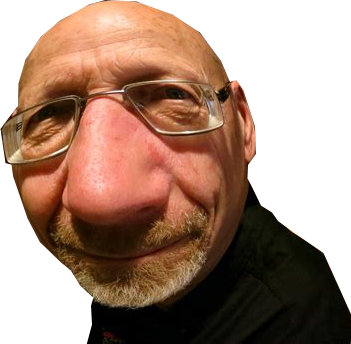
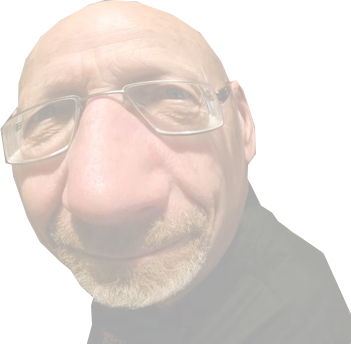
Ajustes no tema

diff --git a/config.css b/config.css
@@ -67,7 +67,7 @@ input[type=number].w-100 {
         rgb(25, 36, 53)
     );
 
-    box-shadow: 0.3rem 0.3rem 0.2rem rgb(110, 110, 110);
+    box-shadow: 0.3rem 0.3rem 0.1rem rgb(180, 180, 180);
 
     color: white;
 }
@@ -153,6 +153,8 @@ input[type=number].w-100 {
 }
 
 .icon {
+    margin-bottom: -2px;
+
     width: 16px;
     height: auto;
 }
@@ -161,7 +163,7 @@ input[type=number].w-100 {
     position: absolute;
     right: 0;
     bottom: 0;
-    opacity: 15%;
 
+    opacity: 50%;
     z-index: -1000;
 }

diff --git a/README.md b/README.md
@@ -36,7 +36,33 @@ A extensão não faz absolutamente nada até que o usuário solicite uma de suas
 - [ ] Remover código antigo não utilizado.
 - [ ] Comentar todas as funções, variáveis e constantes.
 - [ ] Assinar extensão digitalmente.
+- [ ] Atalho(s) de teclado.
 
-<br><br><br><br><br><br>
 
-"Fecha as aba, fio." – Dr. Ricardo Porreta
+
+
+
+
+
+
+
+
+
+
+
+
+
+
+
+
+
+
+<br><br><br><br><br><br><br><br><br><br>
+<br><br><br><br><br><br><br><br><br><br>
+<br><br><br><br><br><br><br><br><br><br>
+<br><br><br><br><br><br><br><br><br><br>
+
+![Porreta](assets/watermark.png)
+
+> "Feeecha as aba, fio."
+> – Dr. Ricardo Porreta, PhD
